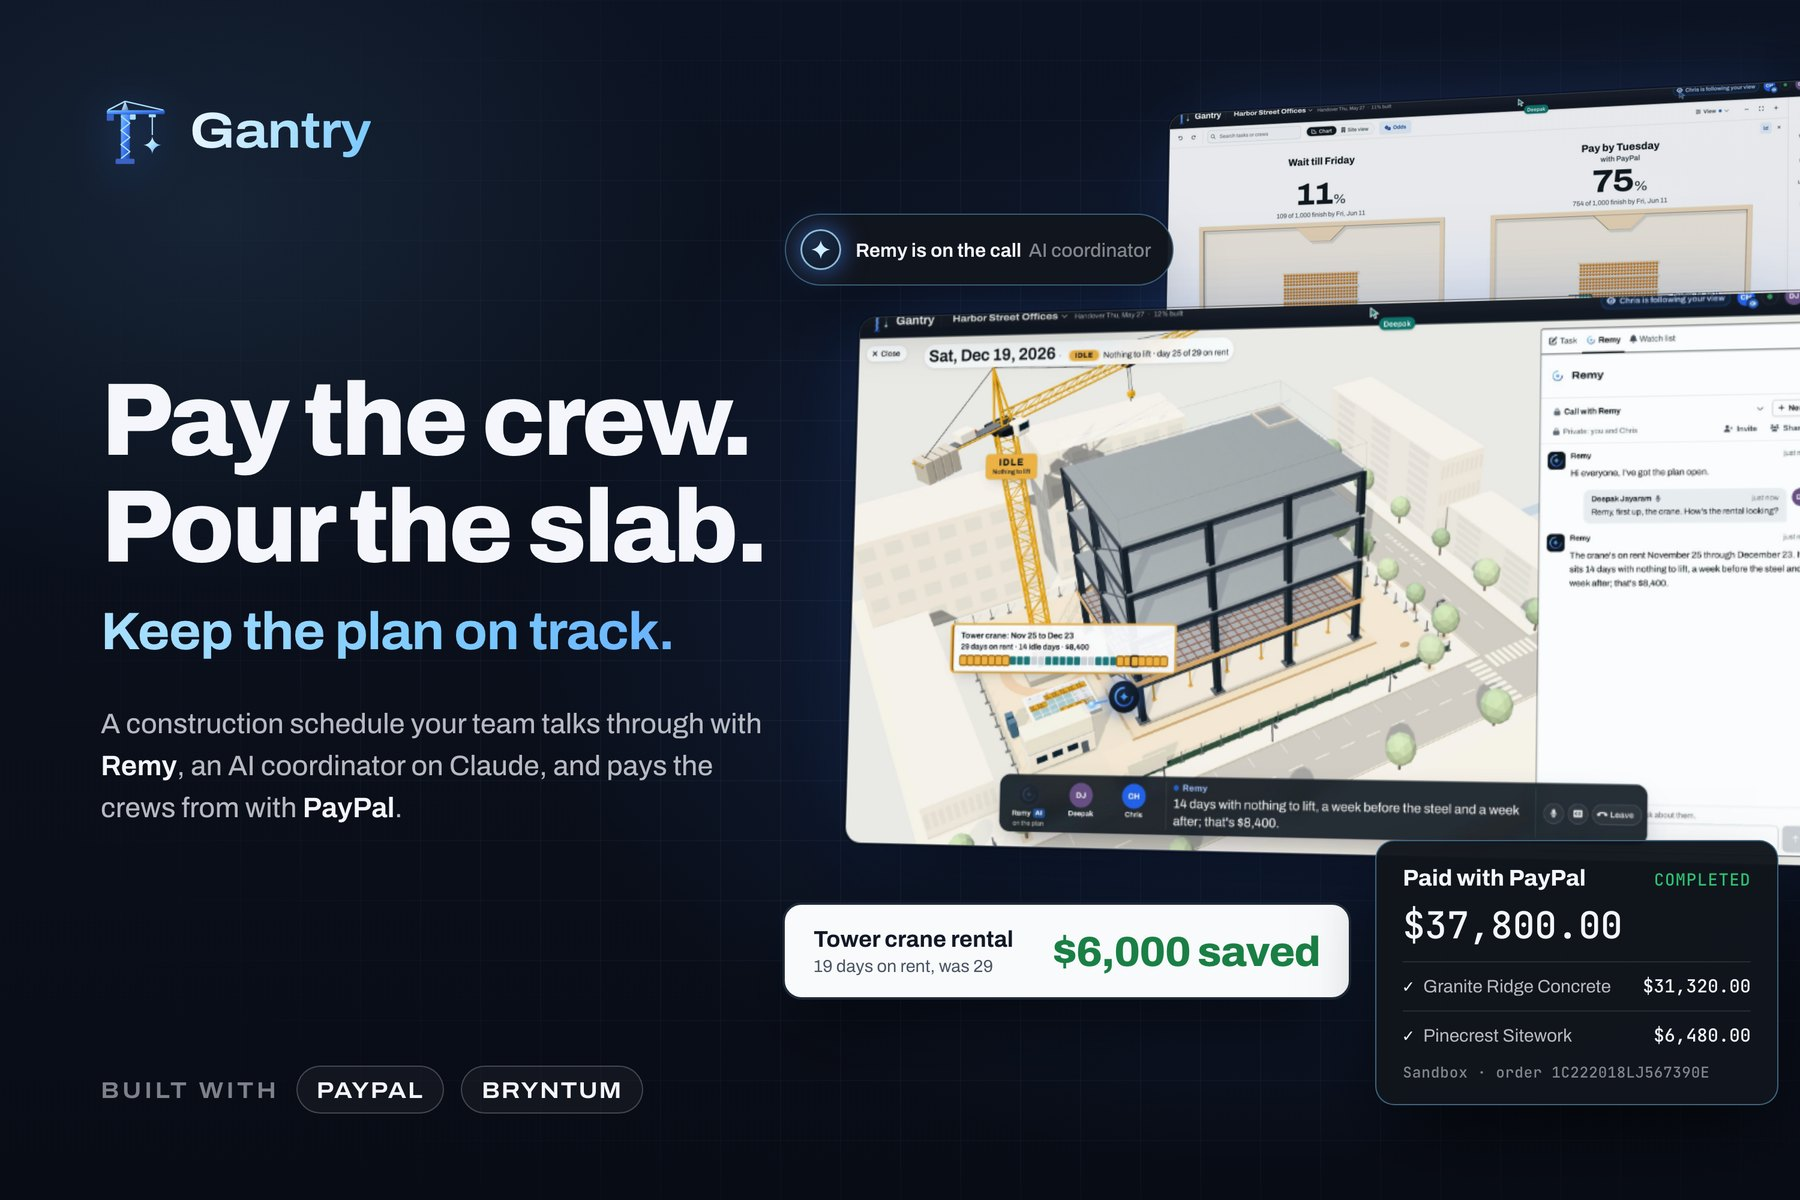
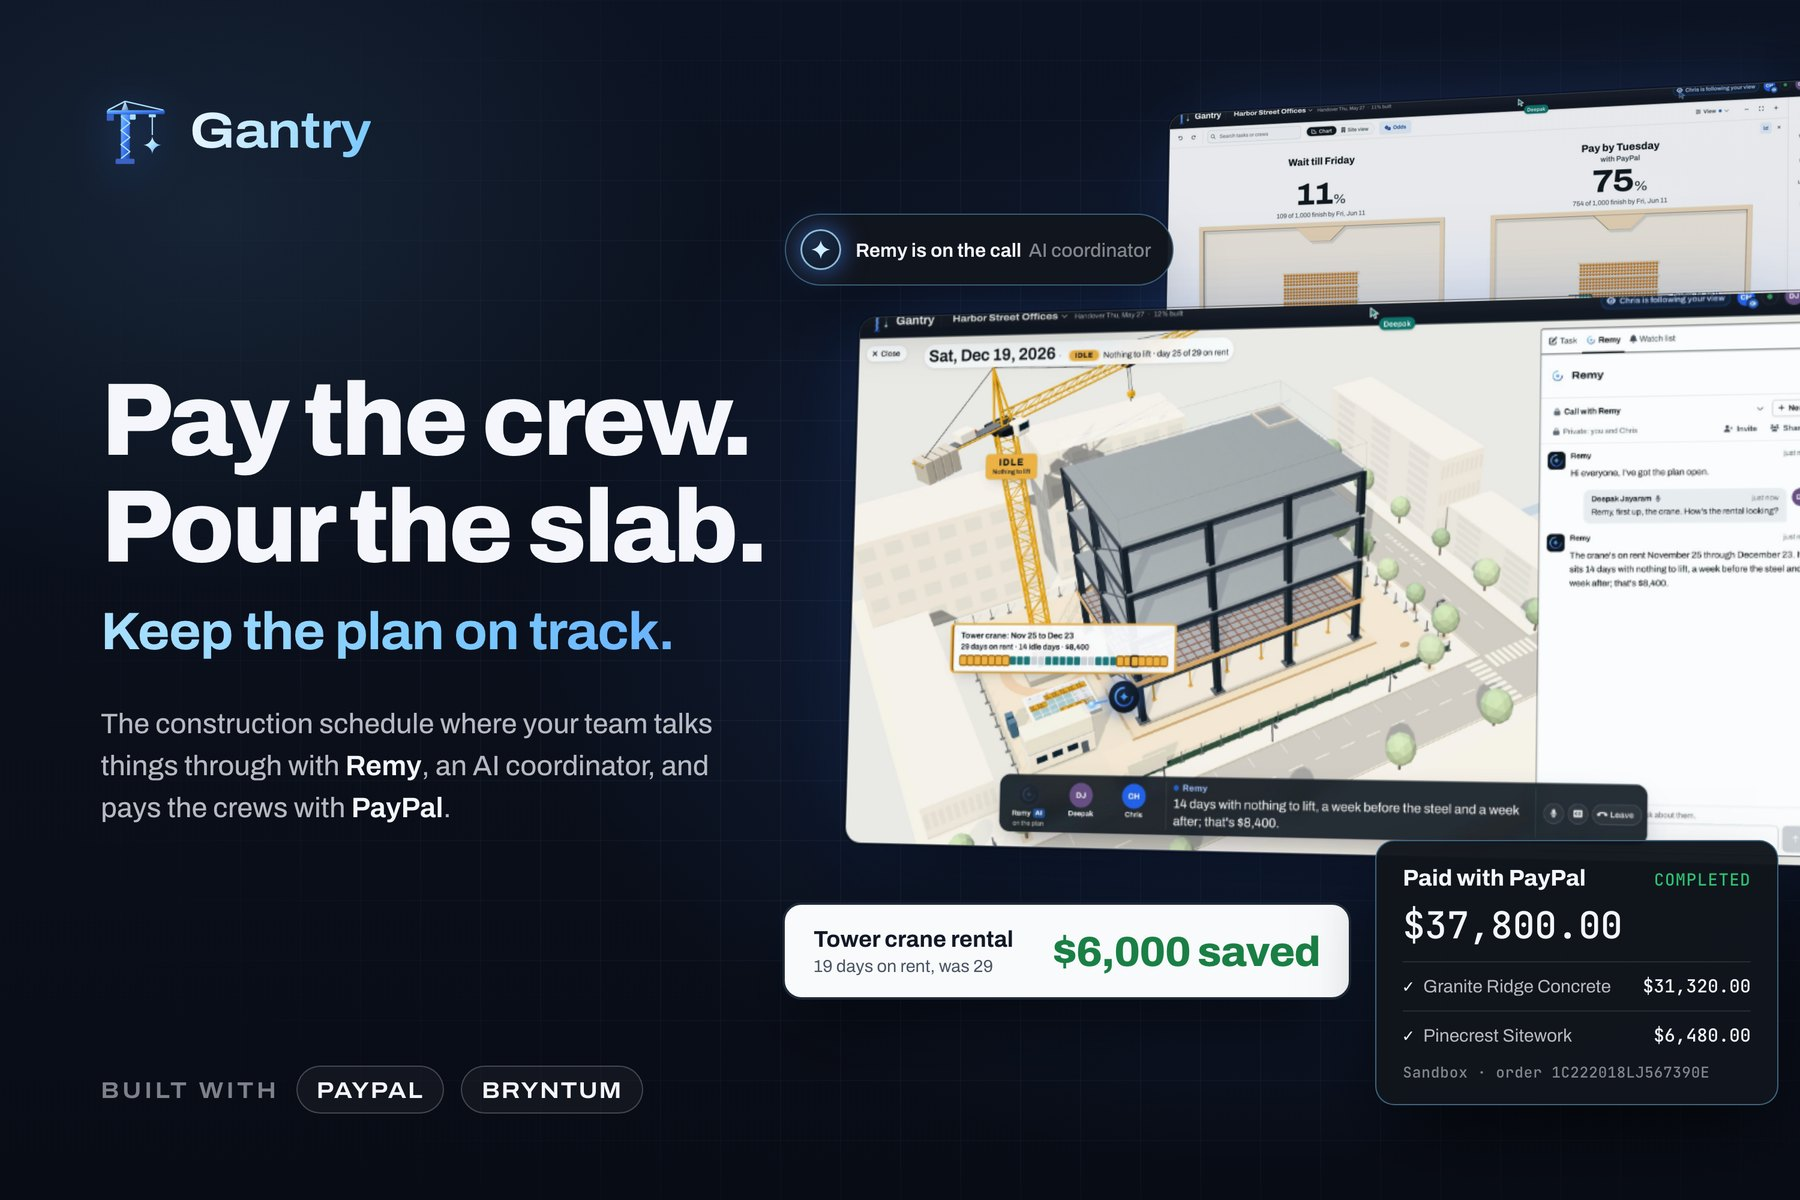
The hero's line reads plainly: the schedule where your team talks things through with Remy and pays the crews with PayPal

Changed region(s): [[0.0622, 0.5858, 0.4356, 0.6783]]

diff --git a/apps/web/landing.html b/apps/web/landing.html
@@ -16,7 +16,7 @@
         <div class="hero-copy">
           <h1 id="hero-title"><span>Pay the crew.</span> <span>Pour the slab.</span></h1>
           <p class="hero-track">Keep the plan on track.</p>
-          <p class="hero-sub">Gantry is a construction schedule your team talks through with Remy, an AI coordinator on Claude, and pays the crews from with PayPal.</p>
+          <p class="hero-sub">Gantry is the construction schedule where your team talks things through with Remy, an AI coordinator, and pays the crews with PayPal.</p>
           <div class="hero-actions">
             <a class="button is-primary is-xl" href="/app" data-track="Start a session" data-track-place="hero">{{START_SESSION}}</a>
             <a class="hero-film" href="#film" data-track="Watch the film" data-track-place="hero"><span class="hero-film-play" aria-hidden="true"></span>Watch the film · 2:59</a>
